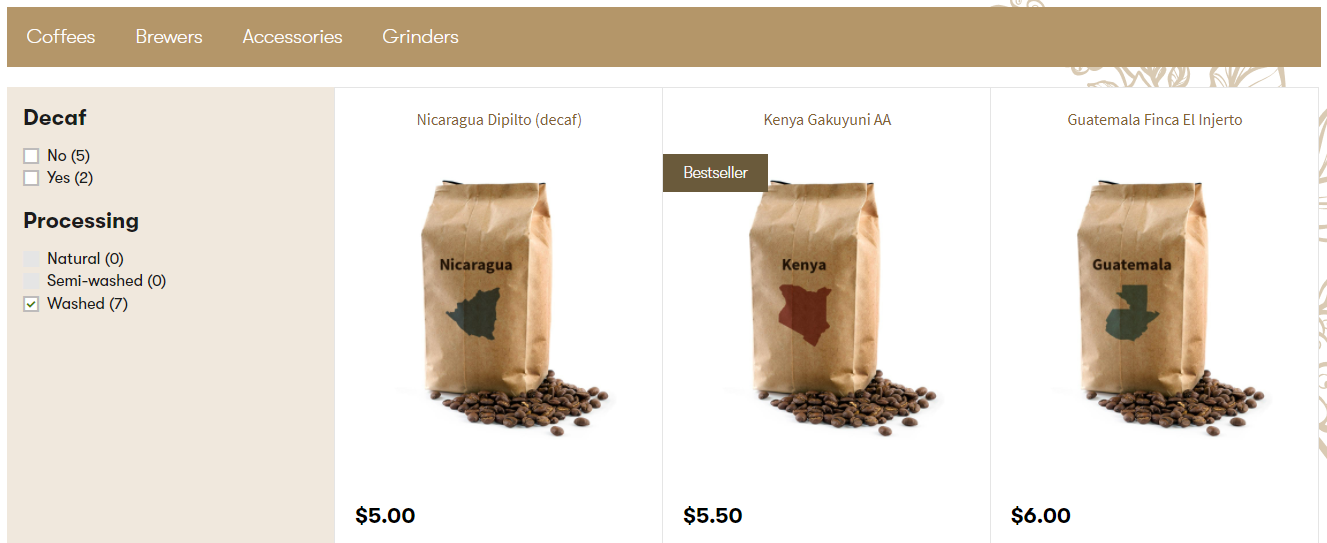
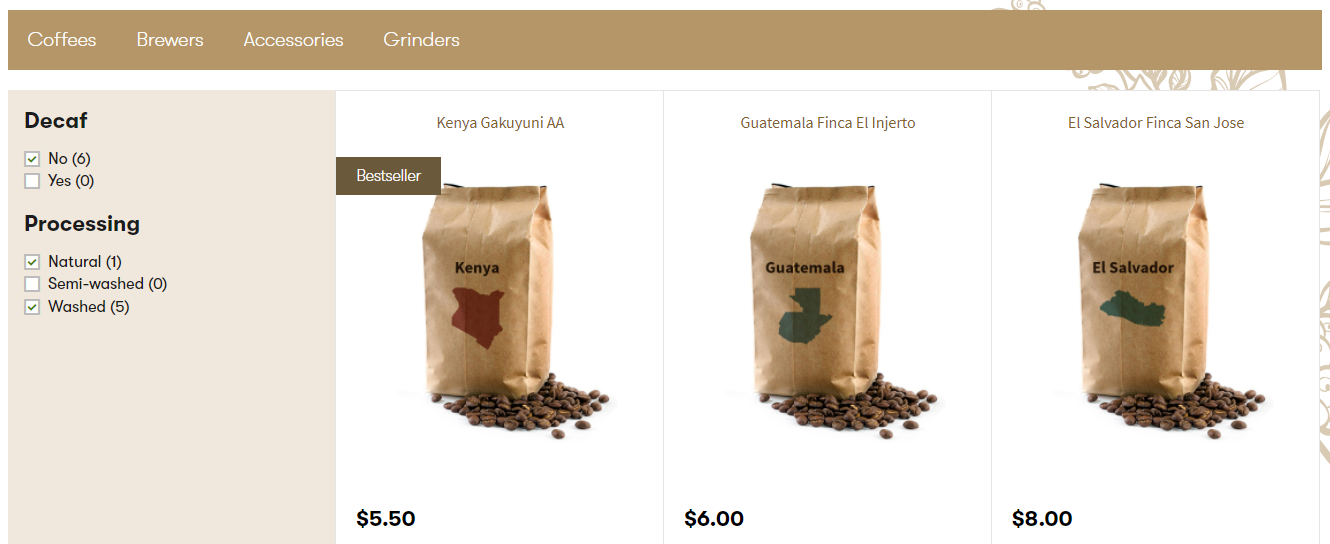
change default faceting to OR per-attribute

diff --git a/src/Models/Facets/AlgoliaFacetFilterViewModel.cs b/src/Models/Facets/AlgoliaFacetFilterViewModel.cs
@@ -42,7 +42,9 @@ namespace Kentico.Xperience.AlgoliaSearch.Models.Facets
                 checkedFacets.AddRange(facetedAttribute.Facets.Where(facet => facet.IsChecked));
             }
 
-            return checkedFacets.Select(facet => new string[] { $"{facet.Attribute}:{facet.Value}" });
+            // Group facets by attribute name so they are processed as OR queries
+            var groupedFacets = checkedFacets.GroupBy(facet => facet.Attribute);
+            return groupedFacets.Select(group => group.Select(facet => $"{facet.Attribute}:{facet.Value}"));
         }
 
 

diff --git a/README.md b/README.md
@@ -674,14 +674,7 @@ If you've been following each section of this guide, the Dancing Goat store list
     @Html.HiddenFor(m => Model.Facets[i].Value)
     @Html.HiddenFor(m => Model.Facets[i].Attribute)
     <span class="checkbox js-postback">
-        @if (Model.Facets[i].Count == 0)
-        {
-            <input data-facet="@(Model.Attribute):@Model.Facets[i].Value" asp-for="@Model.Facets[i].IsChecked" disabled/>
-        }
-        else
-        {
-            <input data-facet="@(Model.Attribute):@Model.Facets[i].Value" asp-for="@Model.Facets[i].IsChecked" />
-        }
+        <input data-facet="@(Model.Attribute):@Model.Facets[i].Value" asp-for="@Model.Facets[i].IsChecked" />
         <label asp-for="@Model.Facets[i].IsChecked">@Model.Facets[i].DisplayValue (@Model.Facets[i].Count)</label>
     </span>
 }
